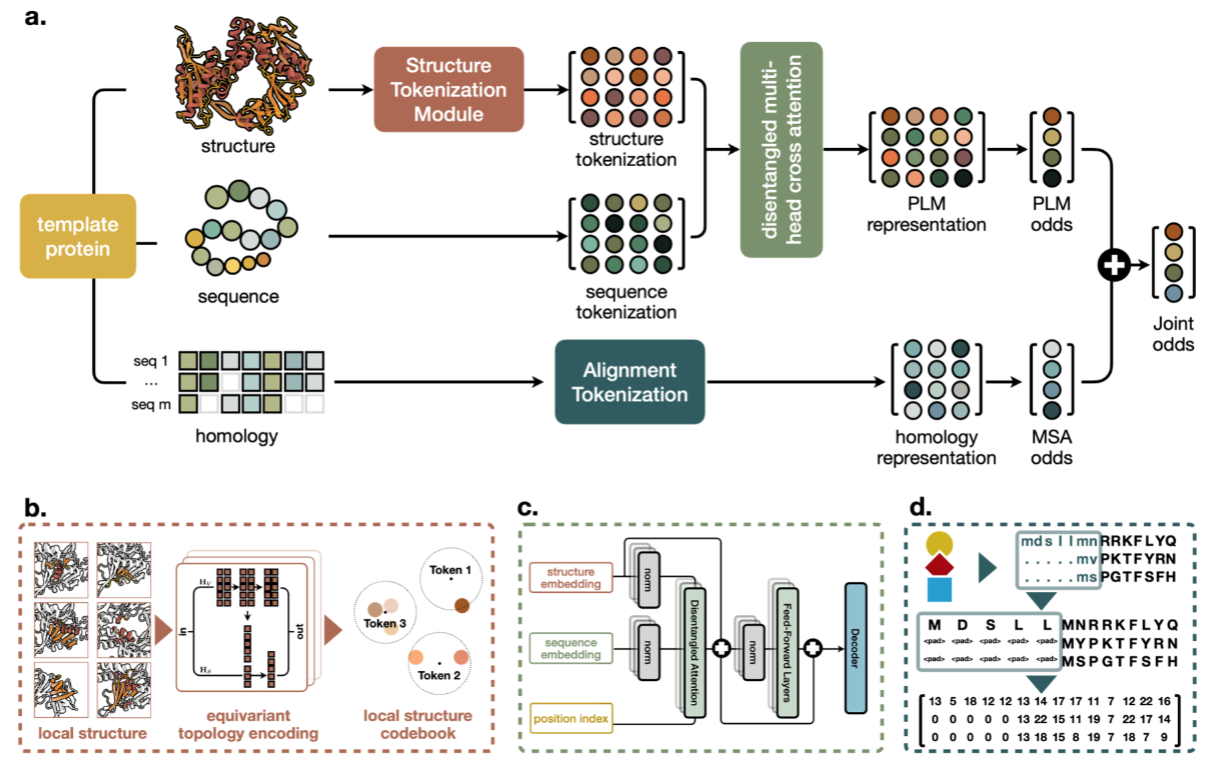
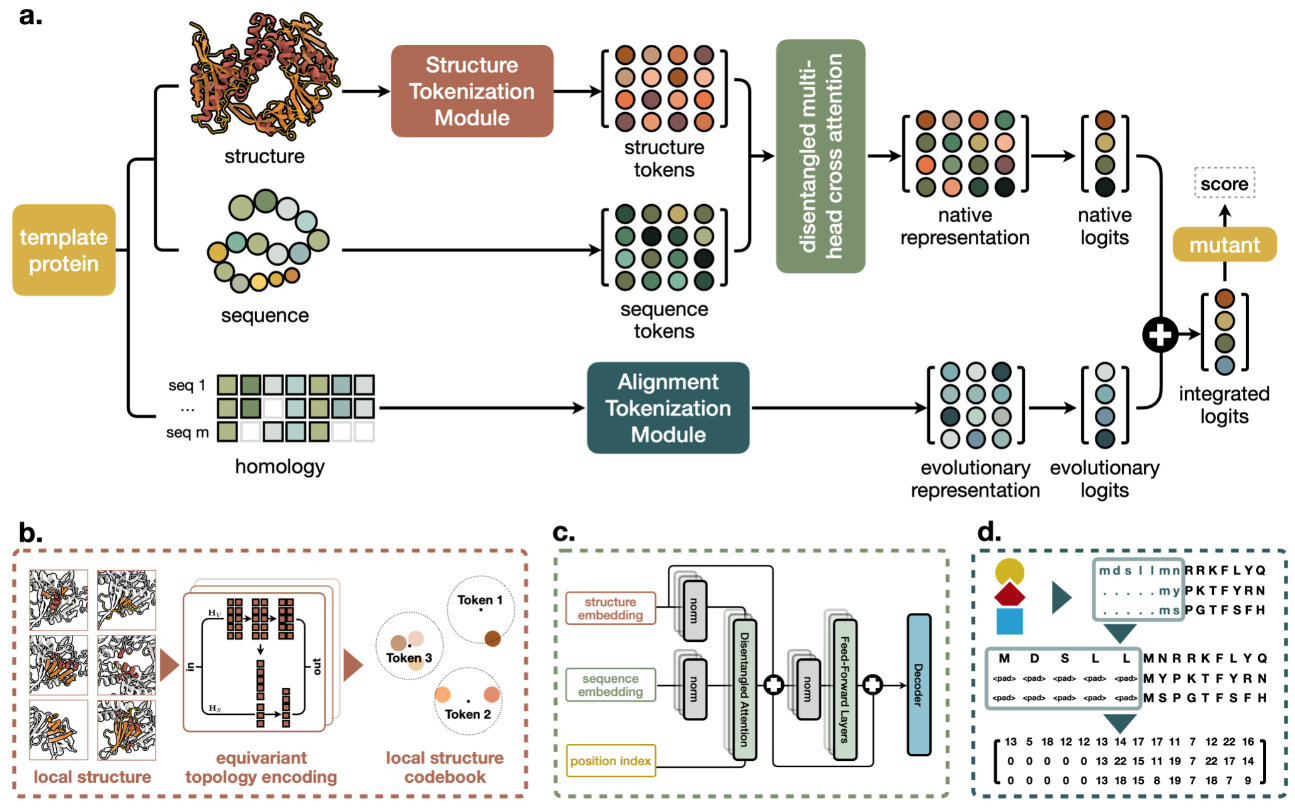
Update README

diff --git a/README.md b/README.md
@@ -154,7 +154,7 @@ Please cite our work if you have used our code or data.
 @article{li2024immunogenicity,
   title={Retrieval-Enhanced Mutation Mastery: Augmenting Zero-Shot Prediction of Protein Language Model},
   author={Tan, Yang and Wang, Ruilin and Wu, Banghao and Hong, Liang and Zhou, Bingxin},
-  journal={arXiv preprint arXiv:2410.21127},
+  journal={arXiv:2410.21127},
   year={2024}
 }
 ```
